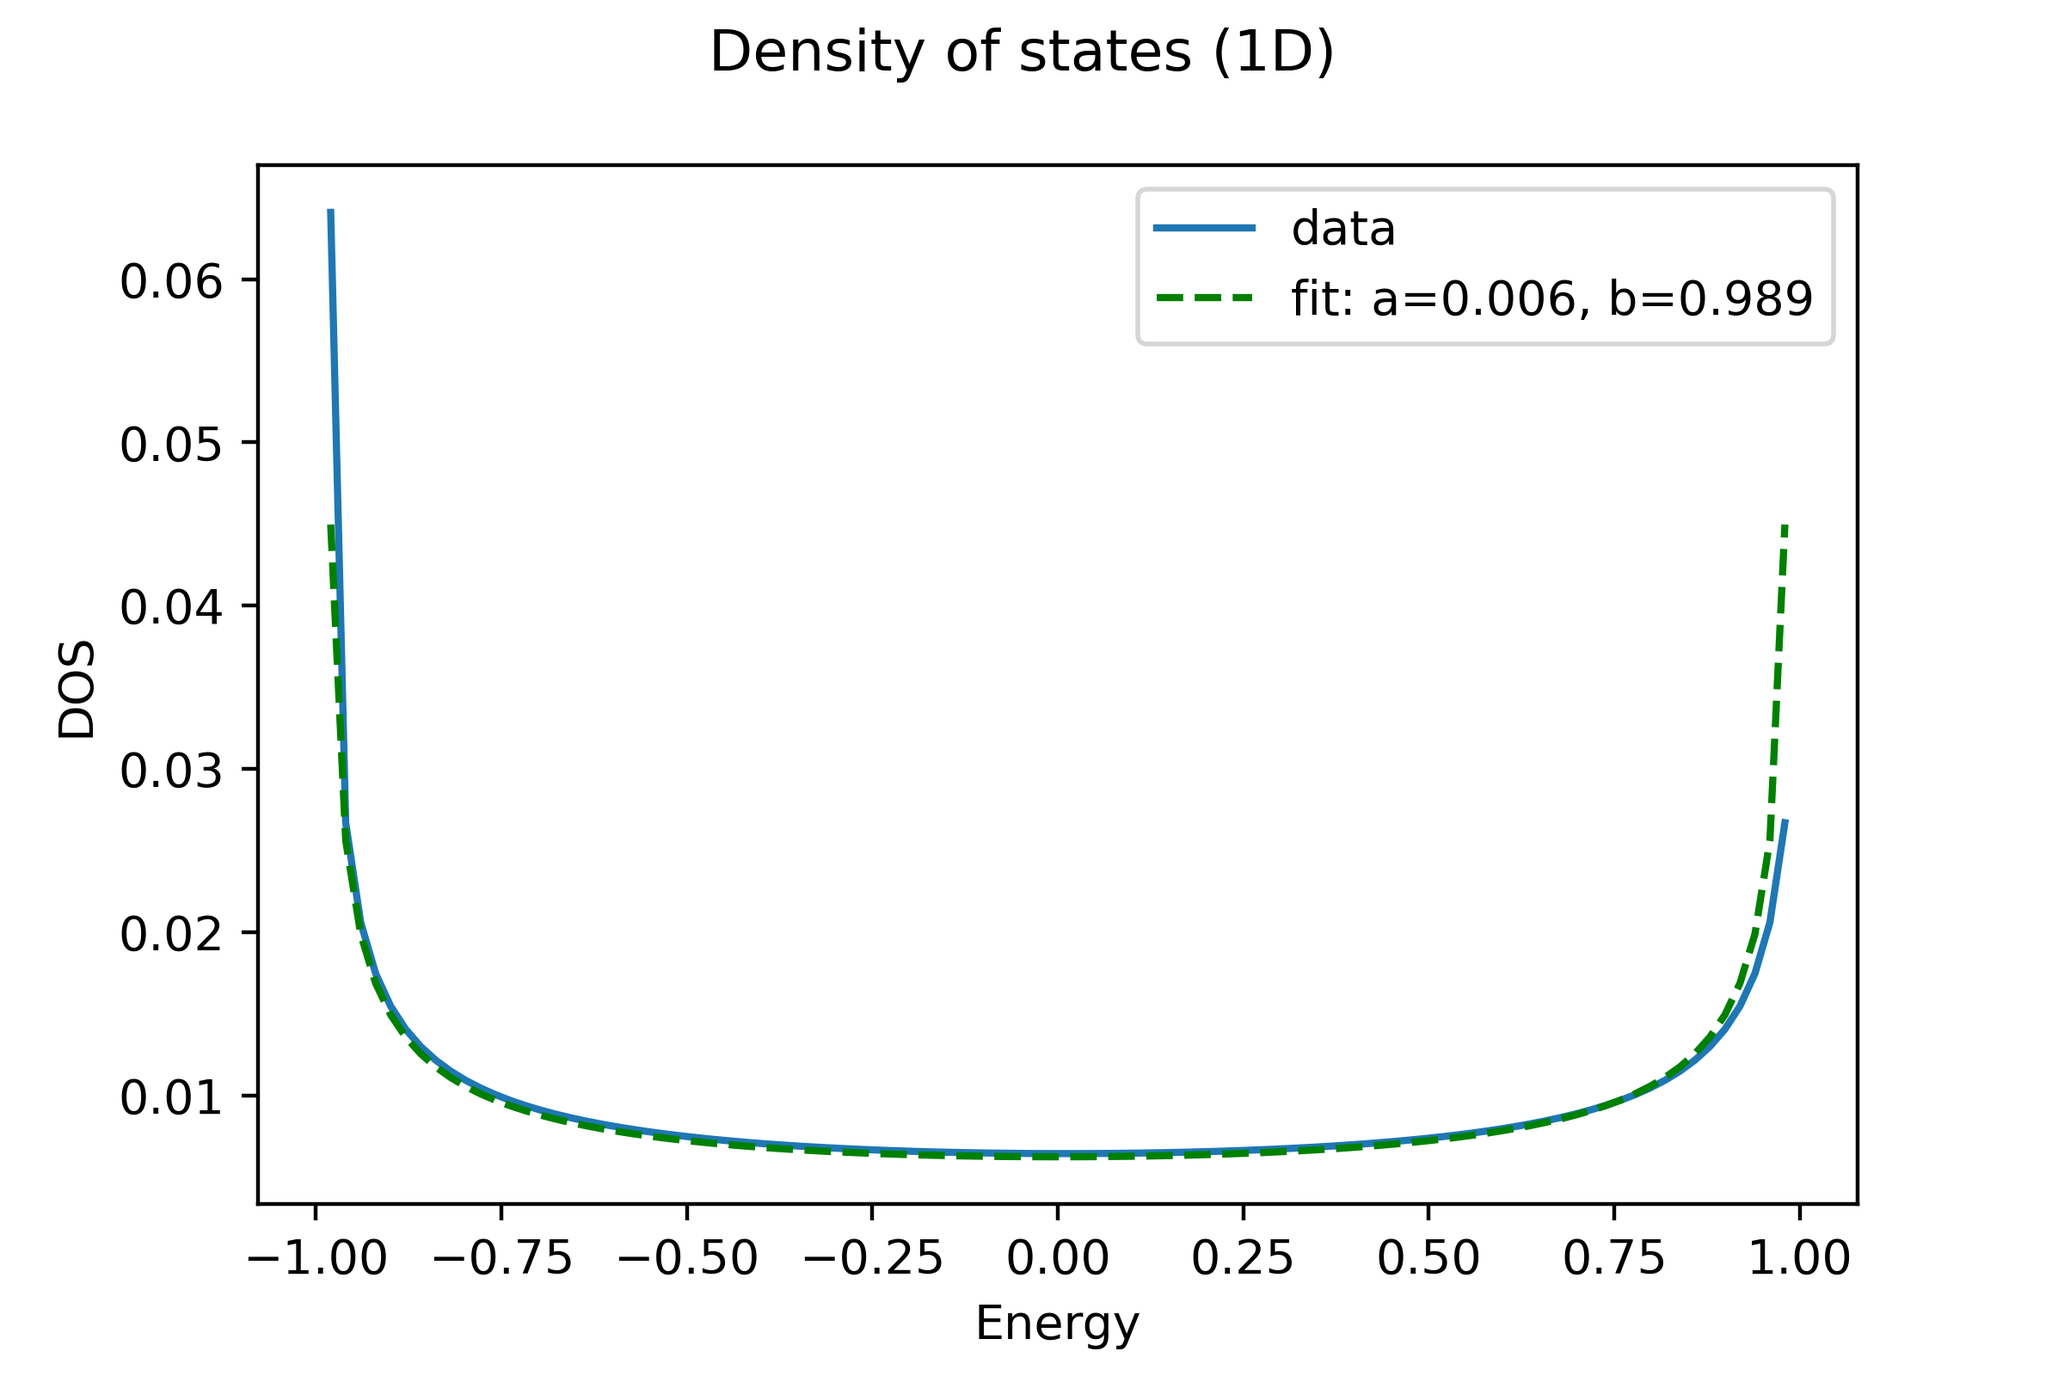
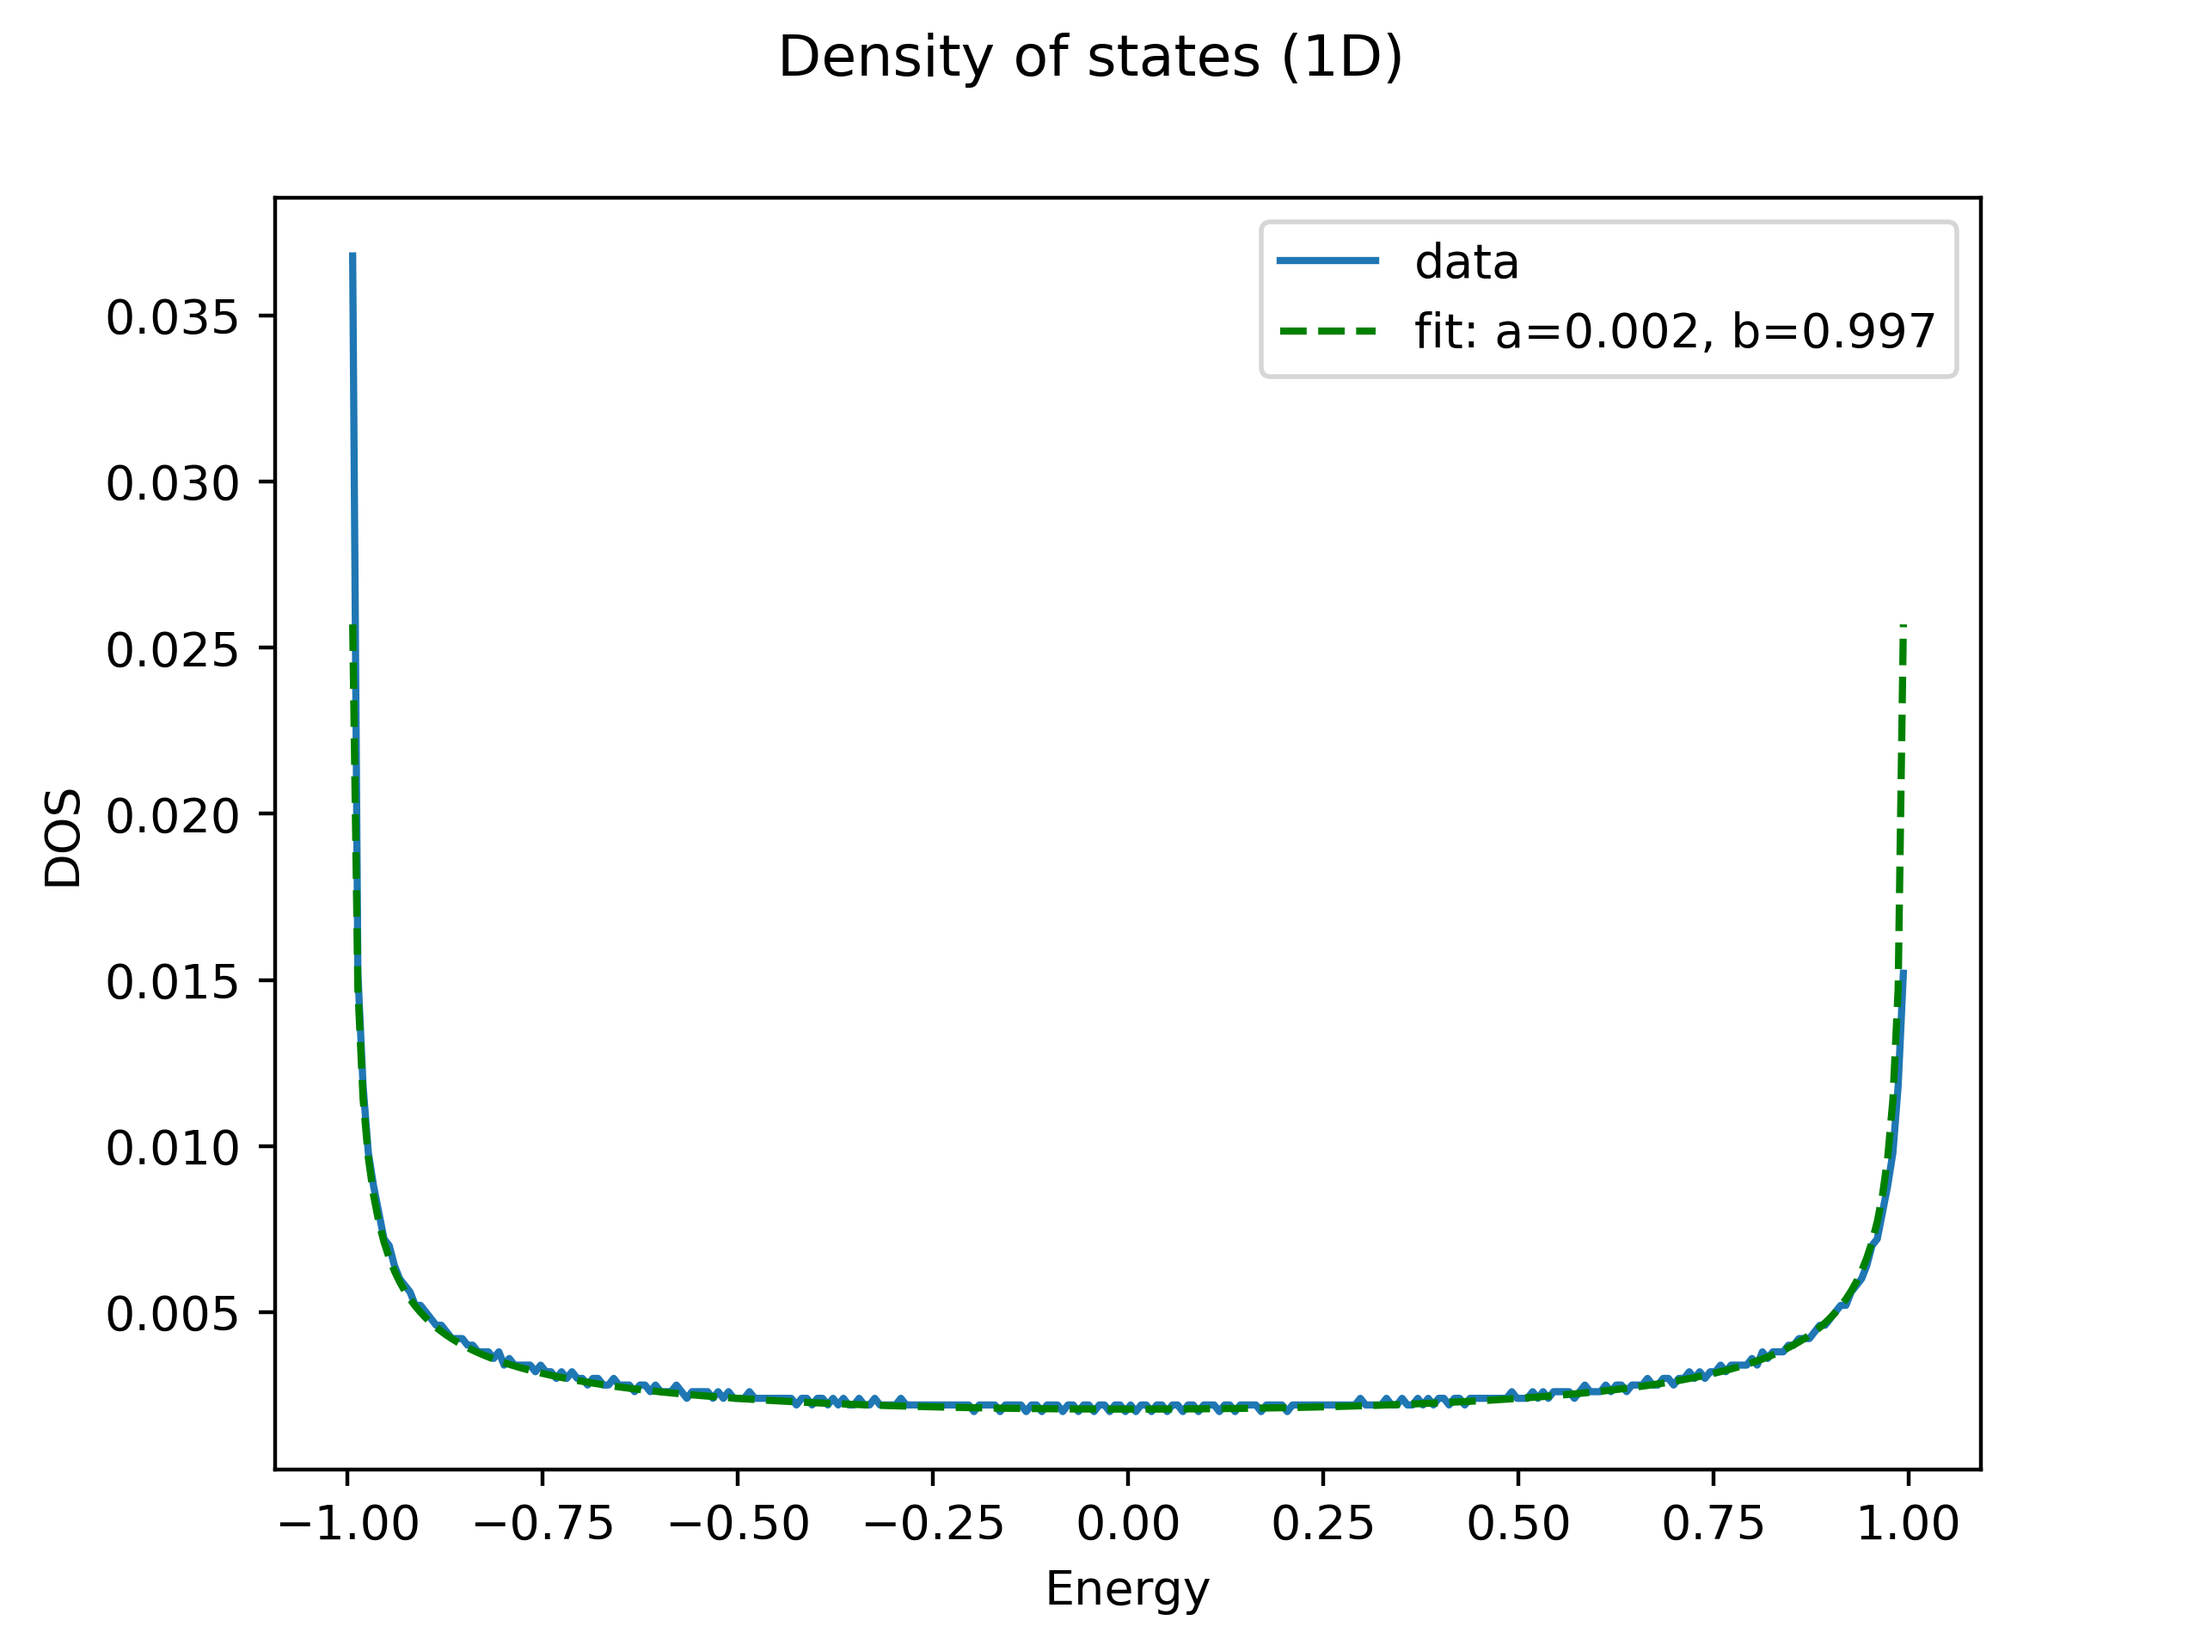
とりあえず実験しよう

diff --git a/model.py b/model.py
@@ -1,0 +1,95 @@
+import numpy as np
+from scipy.optimize import curve_fit
+import matplotlib.pyplot as plt
+class Calculate:
+    def __init__(self, dimension, time, Emin, Emax, dens: bool = True, L: int = 300):
+        self.dens = dens
+        self.L = 300
+        self.N = int( time**(1/dimension))
+        self.dim = dimension
+        self.Es = np.linspace(Emin, Emax, self.L)
+        self.hist = self.__get_hist()
+    def N_dim_sumation(self, one_dim_array):
+        result = np.array(np.copy(one_dim_array))
+        for times in range(2, self.dim + 1):
+            result = result + np.array(np.copy(one_dim_array), ndmin=times).T
+        return result
+    
+    def get_eigens(self):
+        return self.N_dim_sumation(
+            np.cos( 2 * np.pi /self.N * np.arange(self.N))
+            )
+
+    def __get_hist(self):
+        place =  np.searchsorted(self.Es, self.get_eigens())
+        hist = np.histogram(place, bins=np.arange(self.L + 1), density=self.dens)
+        return hist[0]
+
+class DealData:
+    def __init__(self, dim, num: int =  220000000):
+        if dim == 1:
+            self.__one(num)
+        elif dim == 2:
+            self.__two(num)
+        elif dim  == 3:
+            self.__three(num)
+        else:
+            self.__other( num)
+    
+    def __one(self, num):
+        def func( x, a, b):
+            return a * 1/ np.sqrt( 1- ( x/b)**2)
+        one = Calculate(1, num, -1, 1, True)
+        
+        popt, pcov = curve_fit(func, one.Es[1:-1], one.hist[1:-1]) # 発散する点を除外してcurve_fit
+        fig = plt.figure(facecolor='#fafafa')
+        ax = fig.add_subplot(111)
+        ax.plot(one.Es[1:-1], one.hist[1:-1], label="data") # 外れ値を除外
+        ax.plot(one.Es[1:-1], func(one.Es[1:-1], *popt), 'g--', label="fit: a=%5.3f, b=%5.3f" % tuple(popt))
+        fig.suptitle("Density of states (1D) ")
+        ax.set_xlabel("Energy")
+        _ =ax.set_ylabel("DOS")
+        ax.legend()
+        fig.savefig("DOS_1d.png", dpi=400)
+    
+    def __two(self, num):
+        # 2D
+        two = Calculate(2, num, -2, 2, True) 
+        fig = plt.figure(facecolor='#fafafa')
+        ax = fig.add_subplot(111)
+        ax.plot(two.Es[1:], two.hist[1:]) # 外れ値を除外
+        fig.suptitle("Density of states (2D) ")
+        ax.set_xlabel("Energy")
+        _ =ax.set_ylabel("DOS")
+        fig.savefig("DOS_2d.png", dpi=400)
+
+    def __three(self,num):
+        three = Calculate(3, num, -3, 3, True)
+        fig = plt.figure(facecolor='#fafafa')
+        ax = fig.add_subplot(111)
+        ax.plot(three.Es[1:], three.hist[1:]) # 外れ値を除外
+        fig.suptitle("Density of states (3D) ")
+        ax.set_xlabel("Energy")
+        _ =ax.set_ylabel("DOS")
+        fig.savefig("DOS_3d.png", dpi=400)
+    
+    def __other(self, num):
+        def plotter(dim):
+            calc = Calculate(dim,num, -dim, dim, True)
+            ax.plot(calc.Es[1:], calc.hist[1:], label="{}D".format(dim))
+
+        fig = plt.figure(facecolor='#fafafa')
+        ax = fig.add_subplot(111)
+        fig.suptitle("Density of state(4~8D)")
+        for i in range(4, 9):
+            plotter(i)
+
+        ax.set_xlabel("Energy")
+        ax.set_ylabel("DOS")
+        ax.legend()
+        fig.savefig("DOS_4-8d.png", dpi=400)
+
+
+
+if __name__ == "__main__":
+    DealData(1)
